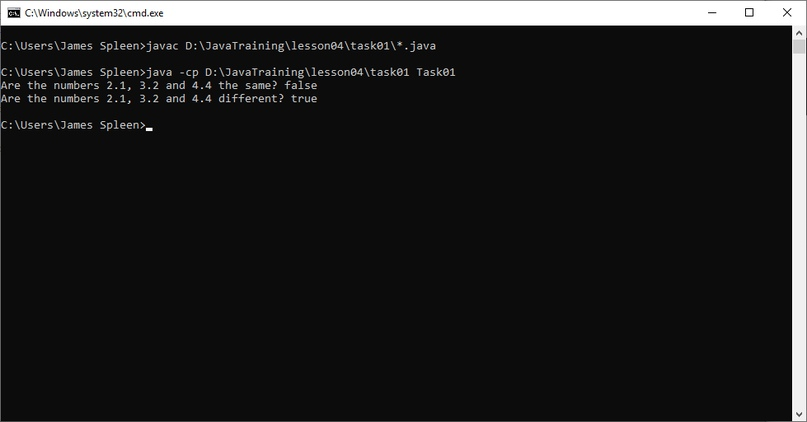
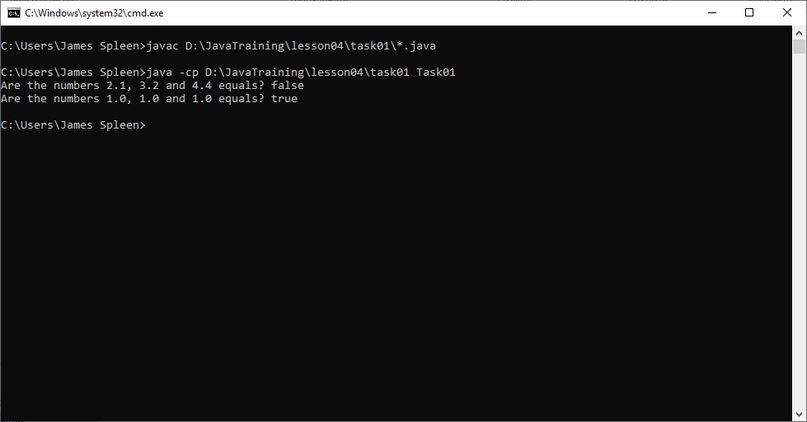
commit

Changed region(s): [[0.1239, 0.9858, 0.9603, 1.0], [0.1239, 0.1848, 0.4027, 0.2464], [0.9913, 0.0924, 1.0, 0.2773]]

diff --git a/lesson04/task01/Task01.java b/lesson04/task01/Task01.java
@@ -6,14 +6,21 @@ public class Task01 {
 		double b = 3.2;
 		double c = 4.4;
 		
-		boolean isSame = NumbersChecker.isSame(a, b, c);
-		boolean isDifferent = NumbersChecker.isDifferent(a, b, c);
+		boolean isEquals = NumbersChecker.isEquals(a, b, c);
 		
 		Printer.print("Are the numbers " + a + ", " + b + " and " + c 
-			+ " the same? " + isSame + "\n");
-			
+			+ " equals? " + isEquals + "\n");
+		
+		
+		a = 1;
+		b = 1;
+		c = 1;
+		
+		isEquals = NumbersChecker.isEquals(a, b, c);
+		
 		Printer.print("Are the numbers " + a + ", " + b + " and " + c 
-			+ " different? " + isDifferent + "\n");
+			+ " equals? " + isEquals + "\n");
+			
 	}
 }
 		

diff --git a/lesson04/task01/NumbersChecker.java b/lesson04/task01/NumbersChecker.java
@@ -1,13 +1,7 @@
 public class NumbersChecker {
 	
-	public static boolean isSame(double a, double b, double c) {
+	public static boolean isEquals(double a, double b, double c) {
 		
 		return a == b && b == c;
-	}
-	
-	public static boolean isDifferent(double a, double b, double c) {
-		
-		return a != b && b != c && a != c;
-	}
-	
+	}	
 }
